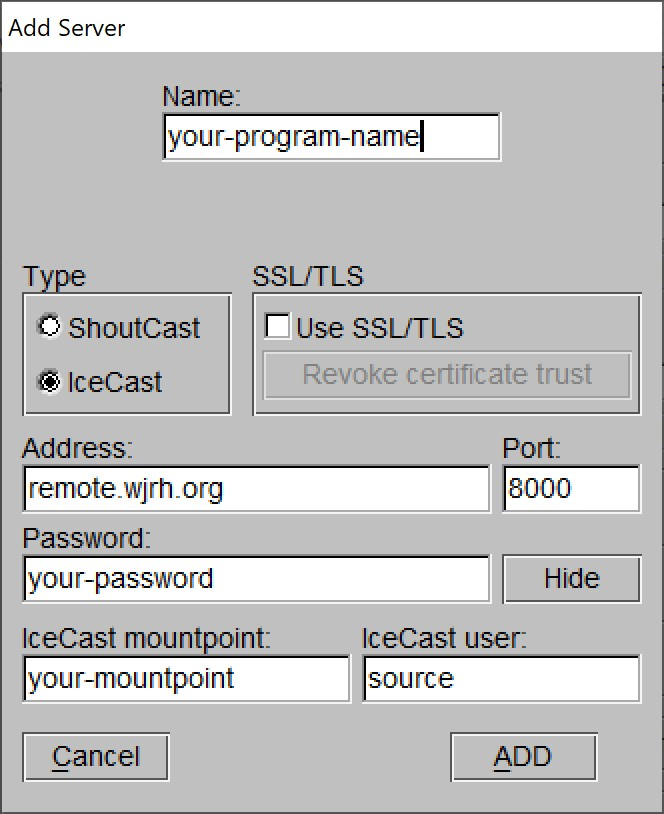
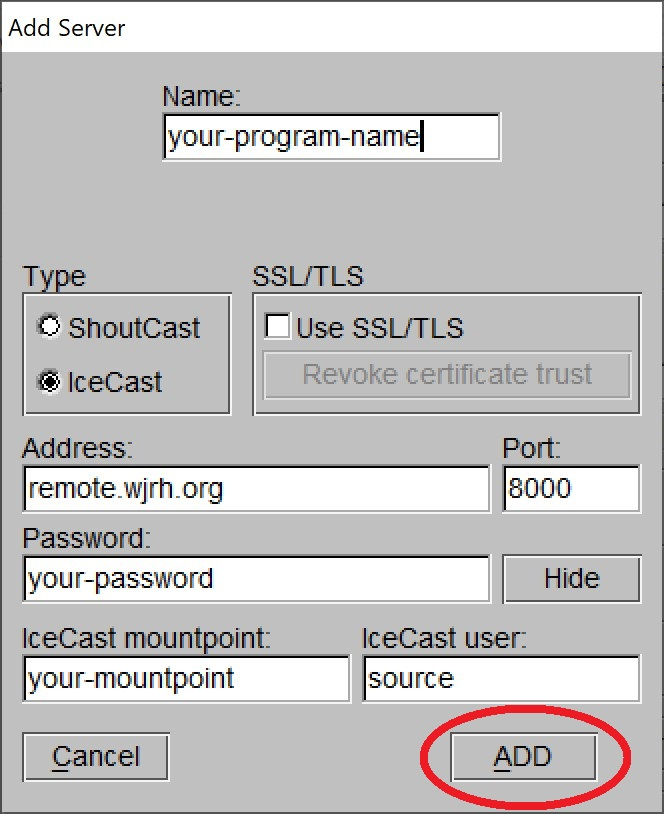
Added more images.

Changed region(s): [[0.6325, 0.86, 0.9337, 1.0], [0.9036, 0.8907, 0.9639, 0.9521]]

diff --git a/README.md b/README.md
@@ -38,6 +38,8 @@ WJRH Engineering recommend the broadcast using this tool (butt) program for gene
 
 <img src="images/butt/install-setup/webpage-download-links.jpg" alt="https://danielnoethen.de/butt/" width="50%">
 
+<img src="images/butt/install-setup/butt-install-sourceforge.jpg" alt="butt-install-sourceforge" width="50%">
+
 2. Install butt.
 
 3. Run butt.
@@ -56,7 +58,7 @@ WJRH Engineering recommend the broadcast using this tool (butt) program for gene
 
 <img src="images/butt/install-setup/butt-settings-main-server-add.jpg" alt="butt-settings-main-server-add" width="50%">
 
-6. Fill out the server information as shown in the picture replacing your-program-name, your-mountpoint, and your-password with your actual program name, mountpoint, and password. This information was provided to you by WJRH Engineering when you signed up for a program. If you are unsure about this information, please contact WJRH Engineering.
+6. Choose the Icecast option Type. Fill out the server information as shown in the table and following picture replacing your-program-name, your-mountpoint, and your-password with your actual program name, mountpoint, and password. This information was provided to you by WJRH Engineering when you signed up for a program. If you are unsure about this information, please contact WJRH Engineering.
 
 |Setting|Value|Value in Example|
 |-------|-----|----------------|
